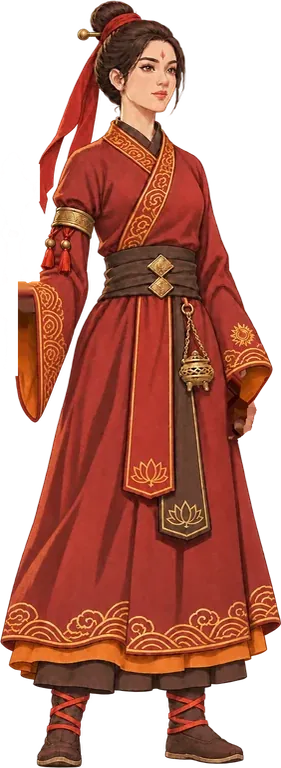
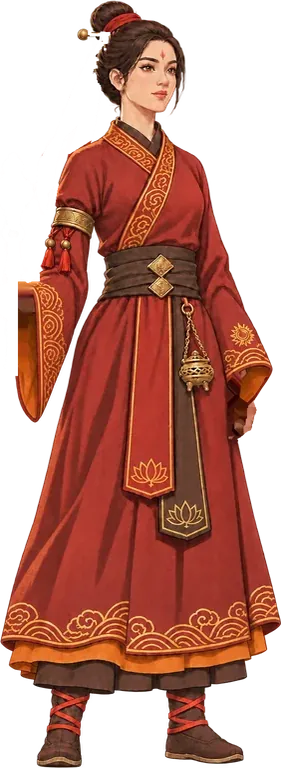
Hà Vân: tách dải lụa đỏ trên tóc thành lớp riêng bay theo gió

Changed region(s): [[0.1423, 0.0312, 0.3986, 0.2812]]

diff --git a/src/app/game/stage/rigs.ts b/src/app/game/stage/rigs.ts
@@ -1994,7 +1994,7 @@ const VI_TRIEU: WarriorRig = {
 /**
  * Hà Vân, pháp sư hệ Hỏa (tướng khởi đầu). Bộ tranh phong cách mới Shan gửi 09/11/2026 (ảnh chuẩn, nền trong suốt). Ảnh đứng
  * tách lớp bằng code: trượng ngắn và nắm tay xoay quanh cổ tay, cầu lửa sáng riêng; bàn tay buông và đầu tách riêng;
- * thân đã xóa trượng và tay rồi vá lại phần vải phía sau.
+ * thân đã xóa trượng, tay và dải lụa rồi vá lại phần vải phía sau; dải lụa đỏ trên tóc là lớp riêng bay theo gió.
  * Hệ tọa độ: ảnh đứng 1024×1536.
  */
 const HA_VAN: WarriorRig = {
@@ -2011,7 +2011,10 @@ const HA_VAN: WarriorRig = {
     arm: { x: 204, y: 561, w: 75, h: 84 },
     head: { x: 378, y: 0, w: 211, h: 235 },
   },
-  cloth: [],
+  cloth: [
+    { name: "ribbon", box: { x: 288, y: 62, w: 147, h: 369 }, behind: true,
+      wind: { axis: "y", start: 0.12, amp: 9, freq: 1.5, k: 3.4, phase: 0.5 } },
+  ],
   covers: [],
   joints: {
     shoulder: { x: 242, y: 603 },

diff --git a/docs/06-art/prompts/chan-dung-lich-su.md b/docs/06-art/prompts/chan-dung-lich-su.md
@@ -196,7 +196,7 @@ Mỗi tranh ra chiêu có tọa độ chỉnh tay trong `HA_VAN` (`src/app/game/
 
 **Kết quả test (09/11/2026):** Shan gửi bộ tranh mới viết lại từ đầu (ảnh chuẩn trước, các tranh sau tham chiếu ảnh chuẩn), cả 5 tranh nền trong suốt, 1024×1536 (ngã 1536×1024), có dấu ngọn lửa trên trán và trượng ngắn đồng nhất. Đã cắt sát, co 0,4 lần (phong thái 0,5 lần), thay `style`, `pose-attack`, `pose-cast`, `pose-ultimate`, `pose-down` của Hà Vân và đổi `anchor/origin/burst` trong `HA_VAN` theo dáng mới (chân đặt đúng giữa hai bàn chân; điểm bắn là đầu trượng, bàn tay xòe, đầu ngón tay chỉ). Dáng mới không trùng tranh cũ nên các tọa độ cũ không còn dùng. `standing.webp` và các lớp rig đã đổi theo ảnh chuẩn (xem đoạn sau). Chân dung `bust.webp` mới (384×384, có dấu trán, nền sương lũy tre và cờ) đã thay cùng ngày.
 
-**Hình động đứng đã đổi theo phong cách mới (09/11/2026):** ảnh chuẩn đứng của Shan được tách lớp bằng code (thân đã xóa trượng, nắm tay và bàn tay buông rồi vá phần vải phía sau; lớp `sword` là trượng ngắn, `arm` là nắm tay, `armR` là bàn tay buông, `head` là đầu). Các lớp khớp hoàn toàn khi ghép lại. Tọa độ mới trong `HA_VAN` (`rigs.ts`); trượng và nắm tay xoay quanh cổ tay (242, 603). Tới đây cả hình động lẫn tranh ra chiêu của Hà Vân đã cùng phong cách. Dải lụa đỏ trên tóc vẫn nằm trong thân (đứng yên), chưa tách ra để bay theo gió.
+**Hình động đứng đã đổi theo phong cách mới (09/11/2026):** ảnh chuẩn đứng của Shan được tách lớp bằng code (thân đã xóa trượng, nắm tay và bàn tay buông rồi vá phần vải phía sau; lớp `sword` là trượng ngắn, `arm` là nắm tay, `armR` là bàn tay buông, `head` là đầu). Các lớp khớp hoàn toàn khi ghép lại. Tọa độ mới trong `HA_VAN` (`rigs.ts`); trượng và nắm tay xoay quanh cổ tay (242, 603). Tới đây cả hình động lẫn tranh ra chiêu của Hà Vân đã cùng phong cách. Dải lụa đỏ trên tóc là lớp riêng (`ribbon`, vẽ sau thân), bay theo gió từ chỗ buộc ở búi tóc (gió trục dọc, biên độ 9); thân đã xóa dải lụa và vá lại chỗ nó phủ lên vai.
 
 ### 9.3 Khối phong cách toàn thân (biến thể của khối bản 2)
 
